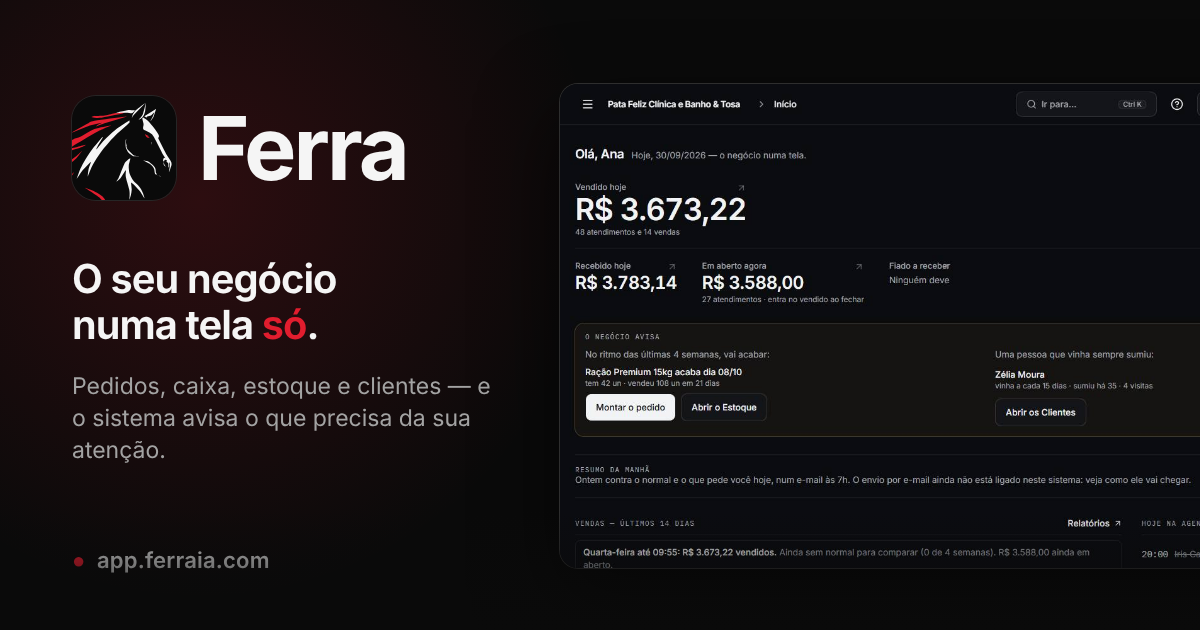
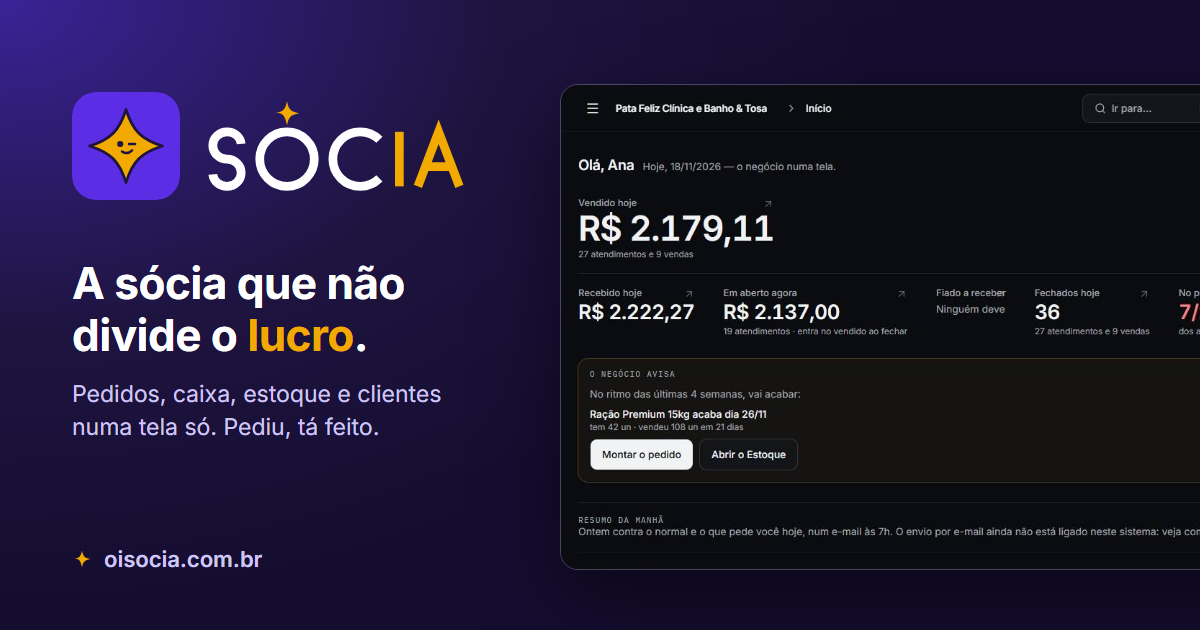
O site diz Sócia e veste roxo e ouro: textos em pt e en, a Estrela no ícone, na prévia do link e no lugar do cavalo (ADR-210)
Squash do branch rebrand-socia. Os endereços continuam em ferraia.com até o domínio novo ativar.

Claude-Session: https://claude.ai/code/session_01HsqrhC7UL2fGHeRZpwzfa7

diff --git a/site/index.html b/site/index.html
@@ -3,16 +3,16 @@
 <head>
   <meta charset="utf-8" />
   <meta name="viewport" content="width=device-width, initial-scale=1, viewport-fit=cover" />
-  <title>Ferra — o seu negócio numa tela só</title>
-  <meta name="description" content="Pedidos, caixa, estoque, agenda e clientes numa tela só, e o Ferra avisa o que precisa da sua atenção. Para pizzarias, pet shops, barbearias, depósitos e salões. Configurado, não programado." />
+  <title>Sócia — o seu negócio numa tela só</title>
+  <meta name="description" content="Pedidos, caixa, estoque, agenda e clientes numa tela só, e a Sócia avisa o que precisa da sua atenção. Para pizzarias, pet shops, barbearias, depósitos e salões. Configurado, não programado." />
   <link rel="icon" type="image/svg+xml" href="/assets/favicon-app.svg" />
   <link rel="apple-touch-icon" href="/assets/apple-touch-icon.png" />
   <meta name="theme-color" content="#08080A" />
   <link rel="canonical" href="https://ferraia.com/" />
   <meta property="og:type" content="website" />
-  <meta property="og:site_name" content="Ferra" />
-  <meta property="og:title" content="Ferra — o seu negócio numa tela só" />
-  <meta property="og:description" content="Pedidos, caixa, estoque, agenda e clientes numa tela só, e o Ferra avisa o que precisa da sua atenção." />
+  <meta property="og:site_name" content="Sócia" />
+  <meta property="og:title" content="Sócia — o seu negócio numa tela só" />
+  <meta property="og:description" content="Pedidos, caixa, estoque, agenda e clientes numa tela só, e a Sócia avisa o que precisa da sua atenção." />
   <meta property="og:url" content="https://ferraia.com/" />
   <meta property="og:image" content="https://ferraia.com/assets/og-image.png" />
   <meta property="og:image:width" content="1200" />
@@ -23,7 +23,7 @@
   <link href="https://fonts.googleapis.com/css2?family=Montserrat:wght@400;600;700;800;900&family=IBM+Plex+Mono:wght@400;500&display=swap" rel="stylesheet" />
   <style>
     :root {
-      --red: #E11D2E; --black: #08080A; --panel: #0A0A0C; --surface: #101014; --surface-2: #15151A;
+      --red: #7350FA; --black: #08080A; --panel: #0A0A0C; --surface: #101014; --surface-2: #15151A;
       --graphite: #2A2A2F; --white: #F5F5F5; --text-2: #B4B4BC; --text-3: #9A9AA2; --text-4: #8E8E96; --text-5: #6B6B72;
       --ok: #66C68C; --warn: #E5A63C; --line: rgba(255,255,255,.09); --line-strong: rgba(255,255,255,.14);
       --font: Montserrat, system-ui, sans-serif; --mono: "IBM Plex Mono", ui-monospace, monospace;
@@ -72,13 +72,13 @@
 
     /* hero */
     .hero { position: relative; overflow: hidden; }
-    .hero .glow { position: absolute; inset: 0; background: radial-gradient(110% 80% at 80% 30%, rgba(225,29,46,.22) 0%, rgba(225,29,46,0) 60%); pointer-events: none; }
+    .hero .glow { position: absolute; inset: 0; background: radial-gradient(110% 80% at 80% 30%, rgba(115,80,250,.22) 0%, rgba(115,80,250,0) 60%); pointer-events: none; }
     .hero .wrap { position: relative; display: grid; grid-template-columns: 1fr; gap: 40px; align-items: center; padding-top: 72px; padding-bottom: 64px; }
     @media (min-width: 980px) { .hero .wrap { grid-template-columns: minmax(0, 560px) minmax(0, 1fr); min-height: 640px; padding-top: 48px; } }
     .eyebrow { display: flex; align-items: center; gap: 12px; margin-bottom: 26px; }
     .eyebrow i { width: 0; height: 0; border-left: 5px solid transparent; border-right: 5px solid transparent; border-bottom: 9px solid var(--red); }
     h1 { font-size: clamp(40px, 5.6vw, 76px); line-height: .96; font-weight: 900; letter-spacing: -.03em; text-transform: uppercase; }
-    h1 em { font-style: normal; color: var(--red); }
+    h1 em { font-style: normal; color: #F2A900; }
     .hero .lead { max-width: 520px; margin-top: 28px; }
     .ctas { display: flex; flex-wrap: wrap; gap: 14px; margin-top: 36px; }
     .hero-mini { display: flex; gap: 28px; margin-top: 52px; flex-wrap: wrap; font-family: var(--mono); font-size: 11px; letter-spacing: .18em; text-transform: uppercase; color: var(--text-5); }
@@ -128,7 +128,7 @@
     .card .go::after { content: "→"; color: var(--red); }
     .card.cta { background: var(--red); color: #fff; }
     .card.cta .label, .card.cta p, .card.cta .go::after { color: #fff; }
-    .card.cta:hover { background: #c9152a; }
+    .card.cta:hover { background: #5B2EE6; }
     .portas { display: grid; gap: 22px; margin-top: 48px; grid-template-columns: 1fr; }
     @media (min-width: 720px) { .portas { grid-template-columns: 1fr 1fr; } }
     .porta { display: grid; grid-template-columns: 1fr; gap: 20px; align-items: center; border: 1px solid var(--line); background: var(--surface); padding: 20px; min-width: 0; }
@@ -159,8 +159,8 @@
     .who { display: grid; gap: 36px; grid-template-columns: 1fr; align-items: center; }
     @media (min-width: 900px) { .who { grid-template-columns: minmax(0, 1fr) 380px; } }
     .who .horse { position: relative; min-height: 260px; }
-    .who .horse img { width: 100%; max-width: 380px; margin: 0 auto; -webkit-mask-image: radial-gradient(62% 62% at 50% 50%, #000 35%, transparent 78%); mask-image: radial-gradient(62% 62% at 50% 50%, #000 35%, transparent 78%); }
-    .who .horse::after { content: ""; position: absolute; inset: 0; background: radial-gradient(60% 60% at 50% 50%, rgba(225,29,46,.18), rgba(225,29,46,0) 70%); pointer-events: none; }
+    .who .horse img { display: block; width: 100%; max-width: 260px; margin: 0 auto; position: relative; z-index: 1; }
+    .who .horse::after { content: ""; position: absolute; inset: 0; background: radial-gradient(60% 60% at 50% 50%, rgba(115,80,250,.30), rgba(91,46,230,0) 70%); pointer-events: none; }
 
     .band { background: var(--red); color: #fff; position: relative; overflow: hidden; }
     .band .wrap { display: grid; gap: 28px; grid-template-columns: 1fr; align-items: center; padding-top: 64px; padding-bottom: 64px; position: relative; }
@@ -187,9 +187,9 @@
 
 <header class="nav">
   <div class="wrap">
-    <a class="brand" href="#top" aria-label="Ferra">
+    <a class="brand" href="#top" aria-label="Sócia">
       <img src="/assets/icone.svg" alt="" width="34" height="34" />
-      <b>Ferra</b>
+      <b>Sócia</b>
     </a>
     <nav>
       <a class="hide-m" href="#tela"><span lang-block="pt">O produto</span><span lang-block="en">Product</span></a>
@@ -216,8 +216,8 @@
         <span lang-block="en">Your business<br />on <em>one</em> screen.</span>
       </h1>
       <p class="lead">
-        <span lang-block="pt">Pedidos, caixa, estoque, agenda e clientes, e o Ferra avisa o que precisa da sua atenção. Pizzaria, pet shop, barbearia, depósito, salão: o mesmo produto, configurado para o seu jeito de trabalhar, não programado por encomenda.</span>
-        <span lang-block="en">Orders, cash, stock, bookings and customers in one place, and Ferra tells you what needs your attention. Pizzeria, pet shop, barbershop, beverage depot, salon: one product, configured to how you work, not custom-coded.</span>
+        <span lang-block="pt">Pedidos, caixa, estoque, agenda e clientes, e a Sócia avisa o que precisa da sua atenção. Pizzaria, pet shop, barbearia, depósito, salão: o mesmo produto, configurado para o seu jeito de trabalhar, não programado por encomenda.</span>
+        <span lang-block="en">Orders, cash, stock, bookings and customers in one place, and Sócia tells you what needs your attention. Pizzeria, pet shop, barbershop, beverage depot, salon: one product, configured to how you work, not custom-coded.</span>
       </p>
       <div class="ctas">
         <a class="btn red" href="https://app.ferraia.com/p/forno-nove"><span lang-block="pt">Ver uma loja de exemplo</span><span lang-block="en">Open a sample store</span></a>
@@ -231,7 +231,7 @@
     </div>
     <div class="shot" data-reveal>
       <div class="bar"><i></i><i></i><i></i><span>app.ferraia.com</span></div>
-      <img data-pt="/assets/telas/forno-nove-inicio.webp" data-en="/assets/telas/harbour-and-hound-inicio.webp" src="/assets/telas/forno-nove-inicio.webp" alt="Ferra home screen: sold today, received, open now and what the business warns about" width="1366" height="768" loading="eager" />
+      <img data-pt="/assets/telas/forno-nove-inicio.webp" data-en="/assets/telas/harbour-and-hound-inicio.webp" src="/assets/telas/forno-nove-inicio.webp" alt="Sócia home screen: sold today, received, open now and what the business warns about" width="1366" height="768" loading="eager" />
     </div>
   </div>
 </section>
@@ -298,8 +298,8 @@
       <span lang-block="en">Seven sample businesses, live right now.</span>
     </h2>
     <p class="lead">
-      <span lang-block="pt">Cada negócio no Ferra ganha um link. O cliente abre no celular, vê o cardápio ou os serviços, pede, marca a hora ou entra na fila, e acompanha sem criar conta. Estes sete são fictícios e ficam vivos todos os dias, com movimento sorteado no horário de Salvador.</span>
-      <span lang-block="en">Every business on Ferra gets a public link. Customers open it on their phone, see the menu or services, order, book a time or join the queue, and track it without an account. These seven are fictional and kept alive every day, with activity generated on Salvador time.</span>
+      <span lang-block="pt">Cada negócio na Sócia ganha um link. O cliente abre no celular, vê o cardápio ou os serviços, pede, marca a hora ou entra na fila, e acompanha sem criar conta. Estes sete são fictícios e ficam vivos todos os dias, com movimento sorteado no horário de Salvador.</span>
+      <span lang-block="en">Every business on Sócia gets a public link. Customers open it on their phone, see the menu or services, order, book a time or join the queue, and track it without an account. These seven are fictional and kept alive every day, with activity generated on Salvador time.</span>
     </p>
     <div class="portas">
       <a class="porta" href="https://app.ferraia.com/p/forno-nove" data-reveal>
@@ -343,13 +343,13 @@
         <span class="go">/p/sabao-de-coco</span>
       </a>
       <a class="card cta" href="https://app.ferraia.com/" data-reveal>
-        <div><span class="label"><span lang-block="pt">Já tem conta?</span><span lang-block="en">Have an account?</span></span><h3><span lang-block="pt">Entrar no Ferra</span><span lang-block="en">Sign in to Ferra</span></h3><p><span lang-block="pt">O lado de dentro: quadro, caixa, estoque, equipe.</span><span lang-block="en">The inside: board, cash, stock, team.</span></p></div>
+        <div><span class="label"><span lang-block="pt">Já tem conta?</span><span lang-block="en">Have an account?</span></span><h3><span lang-block="pt">Entrar na Sócia</span><span lang-block="en">Sign in to Sócia</span></h3><p><span lang-block="pt">O lado de dentro: quadro, caixa, estoque, equipe.</span><span lang-block="en">The inside: board, cash, stock, team.</span></p></div>
         <span class="go">app.ferraia.com</span>
       </a>
     </div>
     <p class="note">
-      <span lang-block="pt">Pessoas, telefones e endereços dos sete negócios são inventados. Fora do horário de cada um, a página diz quando abre. Hoje o Ferra entra por convite: os primeiros negócios de verdade começam em Salvador em dezembro de 2026. Quer o seu lá? <a href="#contato" style="color:var(--white);text-decoration:underline">Fala comigo</a>.</span>
-      <span lang-block="en">People, phone numbers and addresses of the seven businesses are made up. Outside each one's opening hours the page says when it opens. Ferra is invite-only today: the first real businesses go live in Salvador, Brazil, in December 2026. Want yours in? <a href="#contato" style="color:var(--white);text-decoration:underline">Get in touch</a>.</span>
+      <span lang-block="pt">Pessoas, telefones e endereços dos sete negócios são inventados. Fora do horário de cada um, a página diz quando abre. Hoje a Sócia entra por convite: os primeiros negócios de verdade começam em Salvador em dezembro de 2026. Quer o seu lá? <a href="#contato" style="color:var(--white);text-decoration:underline">Fala comigo</a>.</span>
+      <span lang-block="en">People, phone numbers and addresses of the seven businesses are made up. Outside each one's opening hours the page says when it opens. Sócia is invite-only today: the first real businesses go live in Salvador, Brazil, in December 2026. Want yours in? <a href="#contato" style="color:var(--white);text-decoration:underline">Get in touch</a>.</span>
     </p>
   </div>
 </section>
@@ -362,8 +362,8 @@
       <span lang-block="en">One person, AI agents, and everything written down.</span>
     </h2>
     <p class="lead">
-      <span lang-block="pt">O Ferra é construído por um desenvolvedor só, com o Claude Code como método de trabalho e não como autocompletar: cada decisão vira um registro, guardas automáticas recusam publicar quando uma regra quebra, e baterias de teste andam o dia inteiro de negócios fictícios anotando o que está certo e o que está errado.</span>
-      <span lang-block="en">Ferra is built by one developer, using Claude Code as a working method rather than autocomplete: every decision becomes a written record, scripted guards refuse to deploy when a rule breaks, and test batteries walk a full day of fictional businesses, logging what's right and what's wrong.</span>
+      <span lang-block="pt">A Sócia é construída por um desenvolvedor só, com o Claude Code como método de trabalho e não como autocompletar: cada decisão vira um registro, guardas automáticas recusam publicar quando uma regra quebra, e baterias de teste andam o dia inteiro de negócios fictícios anotando o que está certo e o que está errado.</span>
+      <span lang-block="en">Sócia is built by one developer, using Claude Code as a working method rather than autocomplete: every decision becomes a written record, scripted guards refuse to deploy when a rule breaks, and test batteries walk a full day of fictional businesses, logging what's right and what's wrong.</span>
     </p>
     <div class="nums">
       <div class="num" data-reveal><b>210</b><span lang-block="pt">decisões de arquitetura escritas (ADRs), de julho a novembro de 2026</span><span lang-block="en">architecture decision records written, July to November 2026</span></div>
@@ -379,7 +379,7 @@
       </div>
       <div data-reveal>
         <h3><span lang-block="pt">O método, aberto</span><span lang-block="en">The method, in the open</span></h3>
-        <p><span lang-block="pt">O jeito de construir o Ferra está publicado como um pacote de skills do Claude Code: guardas que recusam, baterias que registram certo e errado, vereditos medidos no git. Sem nenhuma linha do código do produto.</span><span lang-block="en">The way Ferra is built is published as an installable Claude Code skills pack: guards that refuse, batteries that log right and wrong, verdicts measured in git. None of the product's code is in it.</span></p>
+        <p><span lang-block="pt">O jeito de construir a Sócia está publicado como um pacote de skills do Claude Code: guardas que recusam, baterias que registram certo e errado, vereditos medidos no git. Sem nenhuma linha do código do produto.</span><span lang-block="en">The way Sócia is built is published as an installable Claude Code skills pack: guards that refuse, batteries that log right and wrong, verdicts measured in git. None of the product's code is in it.</span></p>
         <div class="links">
           <a class="btn ghost" href="https://github.com/joaoferrari12/metodo-agentic">metodo-agentic</a>
           <a class="btn ghost" href="https://github.com/joaoferrari12">GitHub</a>
@@ -393,8 +393,8 @@
   <div class="wrap pad">
     <span class="label"><span lang-block="pt">Seus dados</span><span lang-block="en">Your data</span></span>
     <h2>
-      <span lang-block="pt">O que o Ferra guarda, onde, e quem vê.</span>
-      <span lang-block="en">What Ferra stores, where, and who sees it.</span>
+      <span lang-block="pt">O que a Sócia guarda, onde, e quem vê.</span>
+      <span lang-block="en">What Sócia stores, where, and who sees it.</span>
     </h2>
     <p class="lead">
       <span lang-block="pt">Os dados do seu negócio são do seu negócio. Aqui está o que é verdade hoje, em poucas linhas.</span>
@@ -403,11 +403,11 @@
     <div class="cols">
       <div data-reveal>
         <h3><span lang-block="pt">O que se guarda</span><span lang-block="en">What is stored</span></h3>
-        <p><span lang-block="pt">O que o próprio negócio digita no Ferra: clientes (nome e, se o negócio anotar, telefone, e-mail e documento), pedidos, agenda, estoque, caixa e a equipe com os e-mails de entrada.</span><span lang-block="en">What the business itself types into Ferra: customers (name and, if the business records them, phone, e-mail and ID number), orders, bookings, stock, cash and the team with their sign-in e-mails.</span></p>
+        <p><span lang-block="pt">O que o próprio negócio digita na Sócia: clientes (nome e, se o negócio anotar, telefone, e-mail e documento), pedidos, agenda, estoque, caixa e a equipe com os e-mails de entrada.</span><span lang-block="en">What the business itself types into Sócia: customers (name and, if the business records them, phone, e-mail and ID number), orders, bookings, stock, cash and the team with their sign-in e-mails.</span></p>
       </div>
       <div data-reveal>
         <h3><span lang-block="pt">Onde fica</span><span lang-block="en">Where it lives</span></h3>
-        <p><span lang-block="pt">No banco de dados do Ferra, hospedado em São Paulo, no Brasil (região sa-east-1 da AWS, pelo Supabase). O site e o aplicativo são servidos pela Cloudflare.</span><span lang-block="en">In Ferra's database, hosted in São Paulo, Brazil (AWS region sa-east-1, through Supabase). The site and the app are served by Cloudflare.</span></p>
+        <p><span lang-block="pt">No banco de dados da Sócia, hospedado em São Paulo, no Brasil (região sa-east-1 da AWS, pelo Supabase). O site e o aplicativo são servidos pela Cloudflare.</span><span lang-block="en">In Sócia's database, hosted in São Paulo, Brazil (AWS region sa-east-1, through Supabase). The site and the app are served by Cloudflare.</span></p>
       </div>
       <div data-reveal>
         <h3><span lang-block="pt">Quem vê</span><span lang-block="en">Who can see it</span></h3>
@@ -415,7 +415,7 @@
       </div>
       <div data-reveal>
         <h3><span lang-block="pt">Cartão e Pix</span><span lang-block="en">Cards and Pix</span></h3>
-        <p><span lang-block="pt">O Ferra não guarda número de cartão. O Pix vai direto para a conta do negócio: o Ferra só monta o QR Code com a chave que o dono cadastrou e o valor, e o dinheiro não passa por nós.</span><span lang-block="en">Ferra does not store card numbers. Pix goes straight to the business's own account: Ferra only builds the QR code from the key the owner registered and the amount, and the money never passes through us.</span></p>
+        <p><span lang-block="pt">A Sócia não guarda número de cartão. O Pix vai direto para a conta do negócio: a Sócia só monta o QR Code com a chave que o dono cadastrou e o valor, e o dinheiro não passa por nós.</span><span lang-block="en">Sócia does not store card numbers. Pix goes straight to the business's own account: Sócia only builds the QR code from the key the owner registered and the amount, and the money never passes through us.</span></p>
       </div>
       <div data-reveal>
         <h3><span lang-block="pt">Conexão e cópia</span><span lang-block="en">Connection and copies</span></h3>
@@ -423,7 +423,7 @@
       </div>
       <div data-reveal>
         <h3><span lang-block="pt">Seus direitos (LGPD)</span><span lang-block="en">Your rights (LGPD)</span></h3>
-        <p><span lang-block="pt">Você pode pedir para ver, corrigir ou apagar os dados que o Ferra guarda sobre você ou sobre o seu negócio, e saber com quem eles são compartilhados. Escreva para contato@ferraia.com e eu respondo pessoalmente.</span><span lang-block="en">You can ask to see, correct or delete the data Ferra holds about you or your business, and to know who it is shared with. Write to contato@ferraia.com and I will answer personally.</span></p>
+        <p><span lang-block="pt">Você pode pedir para ver, corrigir ou apagar os dados que a Sócia guarda sobre você ou sobre o seu negócio, e saber com quem eles são compartilhados. Escreva para contato@ferraia.com e eu respondo pessoalmente.</span><span lang-block="en">You can ask to see, correct or delete the data Sócia holds about you or your business, and to know who it is shared with. Write to contato@ferraia.com and I will answer personally.</span></p>
       </div>
     </div>
   </div>
@@ -438,20 +438,20 @@
         <span lang-block="en">Built in Vancouver, for Salvador.</span>
       </h2>
       <p class="lead">
-        <span lang-block="pt">João Victor Ferrari Fonseca, fundador e desenvolvedor. A família dele tem um pet shop em Salvador; ele estuda Sistemas de Computação no BCIT, em Vancouver, e constrói o Ferra desde julho de 2026 para os negócios pequenos que ainda operam no papel e no WhatsApp.</span>
-        <span lang-block="en">João Victor Ferrari Fonseca, founder and developer. His family runs a pet shop in Salvador, Brazil; he studies Computer Systems at BCIT in Vancouver, and has been building Ferra since July 2026 for the small businesses that still run on paper and WhatsApp.</span>
+        <span lang-block="pt">João Victor Ferrari Fonseca, fundador e desenvolvedor. A família dele tem um pet shop em Salvador; ele estuda Sistemas de Computação no BCIT, em Vancouver, e constrói a Sócia desde julho de 2026 para os negócios pequenos que ainda operam no papel e no WhatsApp.</span>
+        <span lang-block="en">João Victor Ferrari Fonseca, founder and developer. His family runs a pet shop in Salvador, Brazil; he studies Computer Systems at BCIT in Vancouver, and has been building Sócia since July 2026 for the small businesses that still run on paper and WhatsApp.</span>
       </p>
       <div class="links">
         <a class="btn red" href="https://www.linkedin.com/in/joaoferrari12">LinkedIn</a>
         <a class="btn ghost" href="https://github.com/joaoferrari12">GitHub</a>
       </div>
     </div>
-    <div class="horse" data-reveal><img src="/assets/cavalo.png" alt="" loading="lazy" /></div>
+    <div class="horse" data-reveal><img src="/assets/estrela.svg" alt="" loading="lazy" /></div>
   </div>
 </section>
 
 <section class="band" id="contato">
-  <div class="emblem" aria-hidden="true"><img src="/assets/emblema-branco.svg" alt="" /></div>
+  <div class="emblem" aria-hidden="true"><img src="/assets/estrela-branca.svg" alt="" /></div>
   <div class="wrap">
     <div>
       <span class="label"><span lang-block="pt">Para o seu negócio</span><span lang-block="en">For your business</span></span>
@@ -460,13 +460,13 @@
         <span lang-block="en">Run a small business? Let's talk.</span>
       </h2>
       <p>
-        <span lang-block="pt">Pizzaria, pet shop, barbearia, depósito, salão, lava-jato. Em dezembro de 2026 os primeiros negócios de Salvador entram no Ferra, e eu monto cada um pessoalmente. Me chama no WhatsApp ou escreve para contato@ferraia.com e me conta como é o seu dia.</span>
-        <span lang-block="en">Pizzeria, pet shop, barbershop, depot, salon, car wash. In December 2026 the first businesses in Salvador go live on Ferra, and I set each one up in person. Message me on WhatsApp or write to contato@ferraia.com and tell me how your day works.</span>
+        <span lang-block="pt">Pizzaria, pet shop, barbearia, depósito, salão, lava-jato. Em dezembro de 2026 os primeiros negócios de Salvador entram na Sócia, e eu monto cada um pessoalmente. Me chama no WhatsApp ou escreve para contato@ferraia.com e me conta como é o seu dia.</span>
+        <span lang-block="en">Pizzeria, pet shop, barbershop, depot, salon, car wash. In December 2026 the first businesses in Salvador go live on Sócia, and I set each one up in person. Message me on WhatsApp or write to contato@ferraia.com and tell me how your day works.</span>
       </p>
     </div>
     <div class="links">
-      <a class="btn white" href="https://wa.me/16047251622?text=Oi%2C%20Jo%C3%A3o!%20Vi%20o%20Ferra%20em%20ferraia.com%20e%20quero%20conversar%20sobre%20o%20meu%20neg%C3%B3cio." rel="noopener"><span lang-block="pt">WhatsApp +1 604 725-1622</span><span lang-block="en">WhatsApp +1 604 725-1622</span></a>
-      <a class="btn line" href="mailto:contato@ferraia.com?subject=Ferra"><span lang-block="pt">contato@ferraia.com</span><span lang-block="en">contato@ferraia.com</span></a>
+      <a class="btn white" href="https://wa.me/16047251622?text=Oi%2C%20Jo%C3%A3o!%20Vi%20a%20S%C3%B3cia%20e%20quero%20conversar%20sobre%20o%20meu%20neg%C3%B3cio." rel="noopener"><span lang-block="pt">WhatsApp +1 604 725-1622</span><span lang-block="en">WhatsApp +1 604 725-1622</span></a>
+      <a class="btn line" href="mailto:contato@ferraia.com?subject=Sócia"><span lang-block="pt">contato@ferraia.com</span><span lang-block="en">contato@ferraia.com</span></a>
       <a class="btn line" href="https://app.ferraia.com/p/forno-nove"><span lang-block="pt">Ver uma loja de exemplo</span><span lang-block="en">Open a sample store</span></a>
     </div>
   </div>
@@ -474,7 +474,7 @@
 
 <footer>
   <div class="wrap">
-    <span>© 2026 Ferra IA · ferraia.com</span>
+    <span>© 2026 Sócia · ferraia.com</span>
     <span><a href="https://wa.me/16047251622" rel="noopener">WhatsApp +1 604 725-1622</a> · <a href="mailto:contato@ferraia.com">contato@ferraia.com</a> · <a href="https://app.ferraia.com/">app.ferraia.com</a> · <a href="https://app.ferraia.com/p/forno-nove"><span lang-block="pt">loja de exemplo</span><span lang-block="en">sample store</span></a> · <a href="https://github.com/joaoferrari12/metodo-agentic">metodo-agentic</a></span>
   </div>
 </footer>
@@ -490,7 +490,7 @@
   function setLang(l) {
     html.setAttribute('data-lang', l);
     html.setAttribute('lang', l === 'pt' ? 'pt-BR' : 'en');
-    document.title = l === 'pt' ? 'Ferra — o seu negócio numa tela só' : 'Ferra — your whole business on one screen';
+    document.title = l === 'pt' ? 'Sócia — o seu negócio numa tela só' : 'Sócia — your whole business on one screen';
     var btns = document.querySelectorAll('[data-set-lang]');
     for (var i = 0; i < btns.length; i++) btns[i].setAttribute('aria-pressed', String(btns[i].getAttribute('data-set-lang') === l));
     try { localStorage.setItem('ferra-site.lang', l); } catch (e) {}

diff --git a/site/404.html b/site/404.html
@@ -3,14 +3,14 @@
 <head>
   <meta charset="utf-8" />
   <meta name="viewport" content="width=device-width, initial-scale=1" />
-  <title>Ferra — página não encontrada</title>
+  <title>Sócia — página não encontrada</title>
   <link rel="icon" type="image/svg+xml" href="/assets/favicon-app.svg" />
   <style>
     html, body { margin: 0; background: #08080A; color: #F5F5F5; font-family: Montserrat, system-ui, sans-serif; }
     main { min-height: 100vh; display: grid; place-items: center; padding: 28px; text-align: center; }
     h1 { font-size: clamp(32px, 6vw, 64px); font-weight: 900; letter-spacing: -.03em; text-transform: uppercase; margin: 0; }
     p { color: #B4B4BC; margin: 18px 0 0; }
-    a { display: inline-block; margin-top: 28px; background: #E11D2E; color: #fff; text-decoration: none; font-size: 12px; font-weight: 800; letter-spacing: .16em; text-transform: uppercase; padding: 16px 26px; }
+    a { display: inline-block; margin-top: 28px; background: #7350FA; color: #fff; text-decoration: none; font-size: 12px; font-weight: 800; letter-spacing: .16em; text-transform: uppercase; padding: 16px 26px; }
   </style>
 </head>
 <body><main><div>
